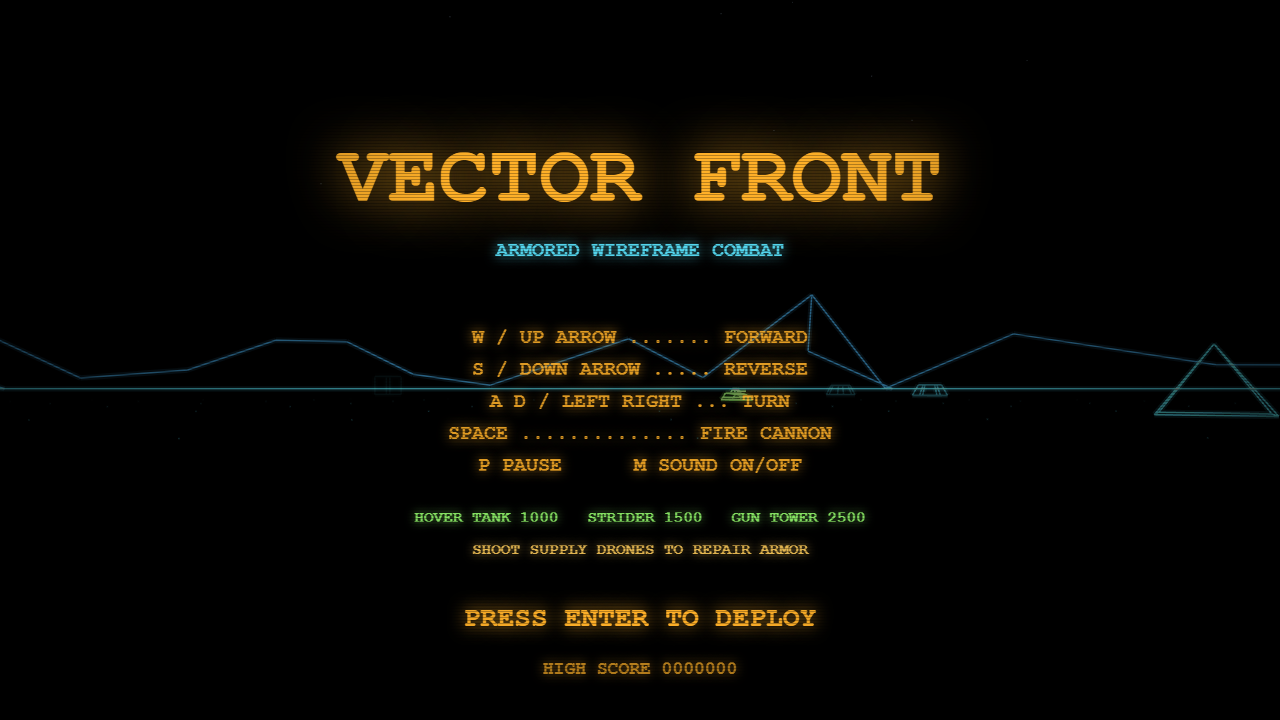
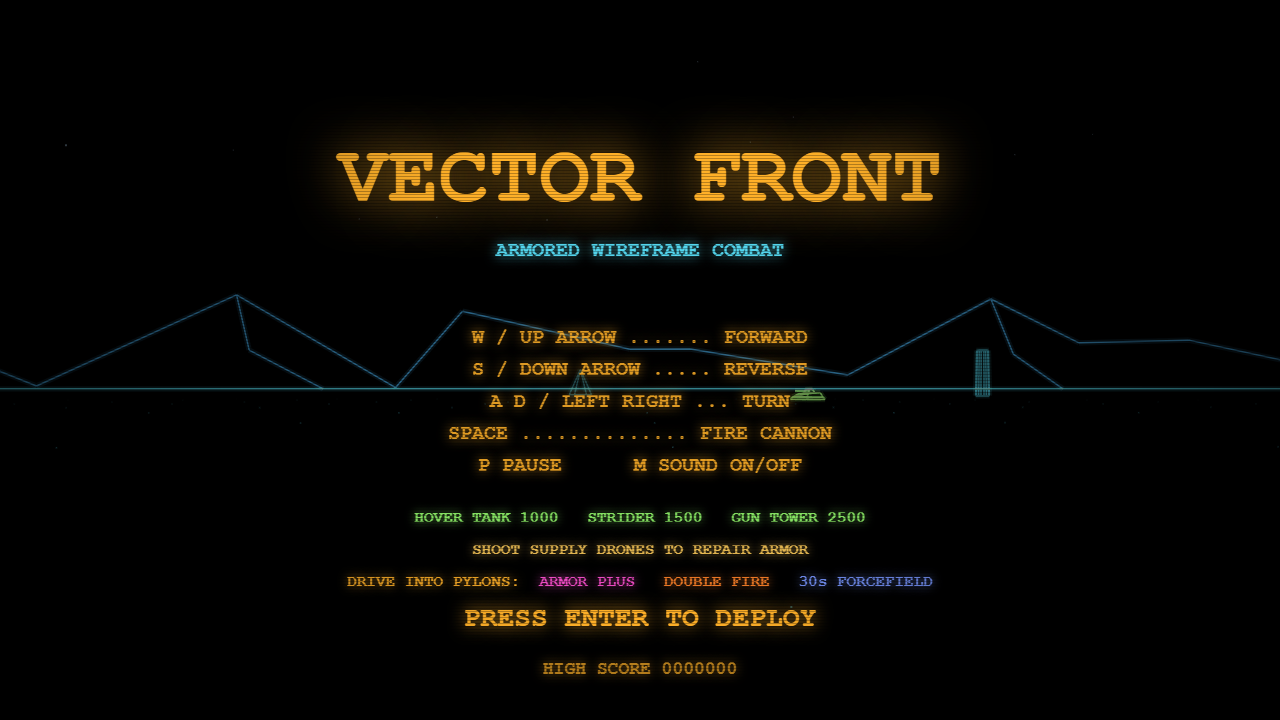
Add power pylons: Armor Plus, Double Fire and 30s Forcefield

diff --git a/BattleZone.html b/BattleZone.html
@@ -35,6 +35,9 @@ const PSH  = '235,255,255';   // player shell
 const ESH  = '255,110,80';    // enemy shell
 const HUD  = '255,176,40';    // amber HUD
 const RED  = '255,70,50';
+const PCOL = { ar: '255,80,210', rf: '255,130,40', sh: '120,150,255' };  // power pylons
+const PNAME = { ar: 'ARMOR PLUS', rf: 'DOUBLE FIRE', sh: 'FORCEFIELD' };
+const PYL_RECHARGE = 45, RAPID_TIME = 20, SHIELD_TIME = 30, ARMOR_MAX = 150;
 
 let W, H, DPR, F, HY, scanPat, vignette;
 function resize() {
@@ -121,13 +124,36 @@ const DRONE = (() => {
 const SHELL_P = merge(octM(.28, .28, .5), lines([[0, 0, -.5], [0, 0, -3.2]]));
 const SHELL_E = merge(octM(.45, .45, .45), lines([[0, 0, -.45], [0, 0, -2.4]]));
 const RING = ringM(28);
+// Power pylon: a tall glyph-banded obelisk with a crystal floating above it
+const shift = (m, dx, dy, dz) => ({ v: m.v.map(p => [p[0] + dx, p[1] + dy, p[2] + dz]), e: m.e });
+const OBEL = (() => {
+  const band = y => { const r = 1.5 - (y - .6) / 8 * .5; return frustM(4, r, r, 0, y, Math.PI / 4); };
+  const tv0 = [];
+  for (let i = 0; i < 4; i++) { const a = Math.PI / 4 + i / 4 * TAU; tv0.push([Math.sin(a) * 1.0, 8.6, Math.cos(a) * 1.0]); }
+  const cap = { v: [...tv0, [0, 10.2, 0]], e: [[0, 4], [1, 4], [2, 4], [3, 4]] };
+  return merge(frustM(4, 2.5, 2.2, .6, 0, Math.PI / 4), frustM(4, 1.5, 1.0, 8, .6, Math.PI / 4), cap,
+    band(2.6), band(3.0), band(6.0), band(6.4),
+    lines([[0, 3.6, 1.36], [0, 5.4, 1.27]], [[0, 3.6, -1.36], [0, 5.4, -1.27]], [[1.36, 3.6, 0], [1.27, 5.4, 0]], [[-1.36, 3.6, 0], [-1.27, 5.4, 0]]));
+})();
+const CRYS = {
+  ar: merge(octM(.8, 1.3, .8), lines([[-1.4, 0, 0], [1.4, 0, 0]], [[0, -1.9, 0], [0, 1.9, 0]])),
+  rf: merge(shift(octM(.6, .9, .6), 0, .75, 0), shift(octM(.6, .9, .6), 0, -.75, 0)),
+  sh: merge(octM(.7, 1.1, .7), (() => { const m = ringM(16); m.v = m.v.map(p => [p[0] * 1.7, 0, p[2] * 1.7]); return m; })())
+};
 
 // ---------- world ----------
 let obstacles = [];
 function makeWorld() {
   obstacles = [];
   let tries = 0;
-  while (obstacles.length < 70 && tries++ < 2000) {
+  const kinds = ['ar', 'rf', 'sh', 'ar', 'rf', 'sh', 'ar', 'rf', 'sh'];
+  while (kinds.length && tries++ < 3000) {
+    const x = Math.random() * S, z = Math.random() * S;
+    if (obstacles.some(q => Math.hypot(wrap(q.x - x), wrap(q.z - z)) < 170)) continue;
+    obstacles.push({ pyl: kinds.shift(), m: OBEL, r: 2.3, h: 10.2, x, z, yaw: 0, cd: 0, ph: Math.random() * TAU });
+  }
+  tries = 0;
+  while (obstacles.length < 79 && tries++ < 2000) {
     const x = Math.random() * S, z = Math.random() * S, t = Math.random();
     let o;
     if (t < .32) { const s = rnd(3.5, 6); o = { m: frustM(4, s * .707, s * .707, s, 0, Math.PI / 4), r: s * .62, h: s }; }
@@ -165,6 +191,7 @@ let enemies = [], shells = [], debris = [], rings = [];
 let state = 'title', paused = false, T = 0;
 let score = 0, hi = 0, wave = 1, kills = 0, killsNeeded = 6, nextLife = 30000;
 let spawnT = 0, supplyT = 40, msgText = '', msgT = 0, shake = 0, flash = 0, staticT = 0, dieT = 0, overT = 0;
+let rapidT = 0, shieldT = 0, shieldFx = 0, shieldBeep = 0;
 let lastHit = -10, bumpT = 0, sweep = 0, lockT = 0, locked = null, camY = 1.5, CH = 1, SH = 0;
 try { hi = +localStorage.getItem('vectorfront.hi') || 0; } catch (e) { }
 function saveHi() { if (score > hi) { hi = score; try { localStorage.setItem('vectorfront.hi', hi); } catch (e) { } } }
@@ -224,7 +251,13 @@ const sfx = {
   over() { [392, 330, 262, 196].forEach((f, i) => tone('square', f, f * .98, .35, .1, 0, .3 + i * .35)); },
   drone(v, p) { tone('triangle', 1400, 1750, .06, .07 * v, p); tone('triangle', 1400, 1750, .06, .07 * v, p, .1); },
   start() { tone('sawtooth', 70, 420, .7, .14); nz(.7, .2, 'bandpass', 300, 2500, 4); },
-  dud() { tone('square', 140, 120, .06, .05); }
+  dud() { tone('square', 140, 120, .06, .05); },
+  pyArmor() { [262, 392, 523, 784, 1047, 1568].forEach((f, i) => { tone('sine', f, f, .35, .16, 0, i * .06); tone('triangle', f * 2, f * 2, .2, .05, 0, i * .06); }); nz(.9, .15, 'bandpass', 800, 6000, 6); },
+  pyRapid() { for (let i = 0; i < 8; i++) tone('square', 300 + i * 160, 300 + i * 160, .06, .09, 0, i * .045); tone('sawtooth', 120, 900, .5, .12, 0, .1); },
+  pyShield() { tone('sine', 140, 1300, 1.1, .25); tone('sine', 147, 1310, 1.1, .18); nz(1.2, .3, 'bandpass', 300, 4000, 3); [659, 988, 1319].forEach((f, i) => tone('triangle', f, f, .5, .1, 0, .7 + i * .1)); },
+  shieldHit(v = 1, p = 0) { tone('triangle', 1250, 520, .25, .3 * v, p); tone('sine', 2500, 1800, .12, .1 * v, p); nz(.25, .3 * v, 'highpass', 6000, 2000, .8, p); },
+  powerDown() { [880, 660, 440, 330].forEach((f, i) => tone('square', f, f, .09, .07, 0, i * .08)); },
+  pyDud() { tone('sine', 220, 180, .2, .08); }
 };
 function spatial(x, z) {
   const dx = wrap(x - P.x), dz = wrap(z - P.z), d = Math.hypot(dx, dz) || 1;
@@ -270,6 +303,17 @@ function addScore(n) {
   if (score >= nextLife) { nextLife += 30000; P.lives++; sfx.life(); msg('BONUS TANK'); }
 }
 
+function reloadTime() { return rapidT > 0 ? .375 : .75; }
+function usePylon(q) {
+  if (q.cd > 0) { if (T - (q.dudT || -9) > 1.5) { q.dudT = T; sfx.pyDud(); msg(PNAME[q.pyl] + ' PYLON RECHARGING ' + Math.ceil(q.cd) + 's', 1.4); } return; }
+  q.cd = PYL_RECHARGE;
+  if (q.pyl === 'ar') { P.armor = ARMOR_MAX; sfx.pyArmor(); msg('ARMOR PLUS - ARMOR ' + ARMOR_MAX, 2.4); }
+  if (q.pyl === 'rf') { rapidT = RAPID_TIME; P.reload = 0; sfx.pyRapid(); msg('DOUBLE FIRE RATE - ' + RAPID_TIME + ' SECONDS', 2.4); }
+  if (q.pyl === 'sh') { shieldT = SHIELD_TIME; shieldBeep = 0; shieldFx = 1; sfx.pyShield(); msg('FORCEFIELD ON - ' + SHIELD_TIME + ' SECONDS', 2.4); }
+  addScore(100);
+  rings.push({ x: q.x, z: q.z, r: 1, sp: 30, life: 1.2, col: PCOL[q.pyl] }, { x: q.x, z: q.z, r: 1, sp: 16, life: 1.5, col: '255,255,255' });
+}
+
 // ---------- game flow ----------
 function clearSpot() {
   for (let i = 0; i < 200; i++) { const x = Math.random() * S, z = Math.random() * S; if (!blocked(x, z, 8)) return [x, z]; }
@@ -284,7 +328,7 @@ function startGame() {
   [P.x, P.z] = clearSpot(); P.h = Math.random() * TAU; P.v = 0; P.armor = 100; P.lives = 3; P.reload = 0;
   enemies = []; shells = []; debris = []; rings = [];
   score = 0; wave = 1; kills = 0; killsNeeded = 6; nextLife = 30000;
-  spawnT = 1.5; supplyT = rnd(30, 45); state = 'play'; paused = false;
+  spawnT = 1.5; supplyT = rnd(30, 45); state = 'play'; paused = false; rapidT = shieldT = 0;
   sfx.start(); msg('WAVE 1 - ENGAGE', 2.5);
 }
 function spawnEnemy(type) {
@@ -318,6 +362,7 @@ function nextWave() {
 }
 function damage(n) {
   if (state !== 'play') return;
+  if (shieldT > 0) { sfx.shieldHit(); shieldFx = .5; shake = Math.max(shake, .2); return; }
   P.armor -= n; lastHit = T; shake = Math.min(1.4, shake + n / 35); flash = .55; staticT = .4; sfx.hit();
   if (P.armor <= 0) { P.armor = 0; die(); }
   else if (P.armor < 35) msg('ARMOR CRITICAL', 1.6);
@@ -329,7 +374,7 @@ function die() {
 function respawn() {
   P.lives--;
   if (P.lives <= 0) { state = 'over'; overT = 0; saveHi(); sfx.over(); return; }
-  P.armor = 100; P.v = 0; state = 'play'; shells = [];
+  P.armor = 100; P.v = 0; state = 'play'; shells = []; rapidT = shieldT = 0;
   for (const e of enemies) {
     const d = Math.hypot(wrap(e.x - P.x), wrap(e.z - P.z));
     if (d < 90) { e.dead = true; }
@@ -363,7 +408,7 @@ function killEnemy(e, scored) {
   explode(e.x, e.y + (e.type === 'sk' ? .3 : 0), e.z, m, e.type === 'st' ? e.spin : e.type === 'py' ? e.head : e.yaw, e.type === 'dr' ? DCOL : ECOL, e.type === 'py');
   const s = spatial(e.x, e.z); sfx.boom(s.v, s.p, e.type === 'py');
   if (e.type === 'dr') {
-    if (scored) { addScore(500); P.armor = Math.min(100, P.armor + 50); sfx.repair(); msg('ARMOR RESTORED +50'); }
+    if (scored) { addScore(500); P.armor = Math.max(P.armor, Math.min(100, P.armor + 50)); sfx.repair(); msg('ARMOR RESTORED +50'); }
     return;
   }
   if (scored) addScore(e.type === 'sk' ? 1000 : e.type === 'st' ? 1500 : 2500);
@@ -388,6 +433,7 @@ function update(dt) {
     if (active < maxA && spawnT <= 0) { spawnEnemy(); spawnT = rnd(2, 4.5); }
     supplyT -= dt;
     if (supplyT <= 0) { supplyT = rnd(40, 60); if (!enemies.some(e => e.type === 'dr')) spawnSupply(); }
+    for (const q of obstacles) if (q.pyl && q.cd > 0) { q.cd -= dt; if (q.cd <= 0) q.cd = 0; }
     if (T - lastHit > 4 && P.armor < 100) P.armor = Math.min(100, P.armor + 2.5 * dt);
   }
 
@@ -419,6 +465,11 @@ function updatePlayer(dt) {
   P.v += clamp(target - P.v, -28 * dt, 28 * dt);
   P.h = angN(P.h + turn * 1.1 * dt);
   let nx = P.x + Math.sin(P.h) * P.v * dt, nz = P.z + Math.cos(P.h) * P.v * dt;
+  for (const q of obstacles) {
+    if (!q.pyl) continue;
+    const dx = wrap(nx - q.x), dz = wrap(nz - q.z);
+    if (dx * dx + dz * dz < (q.r + 2.6) ** 2) usePylon(q);
+  }
   const o = blocked(nx, nz, 1.7);
   bumpT -= dt;
   if (o) {
@@ -434,10 +485,16 @@ function updatePlayer(dt) {
   }
   P.x = mod(nx); P.z = mod(nz);
 
+  if (rapidT > 0) { rapidT -= dt; if (rapidT <= 0) { rapidT = 0; sfx.powerDown(); msg('DOUBLE FIRE ENDED', 1.6); } }
+  if (shieldT > 0) {
+    shieldT -= dt;
+    if (shieldT <= 5 && shieldT > 0 && Math.ceil(shieldT) !== shieldBeep) { shieldBeep = Math.ceil(shieldT); sfx.warn(.7, 0); }
+    if (shieldT <= 0) { shieldT = 0; sfx.powerDown(); msg('FORCEFIELD DOWN', 1.6); }
+  }
   P.reload -= dt;
   if (K.fire) {
     if (P.reload <= 0) {
-      P.reload = .75;
+      P.reload = reloadTime();
       shells.push({ own: true, x: mod(P.x + Math.sin(P.h) * 2.5), z: mod(P.z + Math.cos(P.h) * 2.5), y: 1.2,
         vx: Math.sin(P.h) * 95, vz: Math.cos(P.h) * 95, life: 1.6, yaw: P.h });
       sfx.fire(); shake = Math.max(shake, .25);
@@ -489,7 +546,7 @@ function updateEnemies(dt) {
       for (const o of obstacles) { const ox = wrap(e.x - o.x), oz = wrap(e.z - o.z); if (ox * ox + oz * oz < (o.r + 2.5) ** 2) ty = Math.max(ty, o.h + 1.6); }
       e.y += (ty - e.y) * Math.min(1, dt * 6);
       if (live && dist < 60 && T - e.warnT > Math.max(.15, dist / 120)) { const s = spatial(e.x, e.z); sfx.warn(s.v, s.p); e.warnT = T; }
-      if (live && dist < 2.9 && e.y < 3.5) { damage(45); killEnemy(e, false); }
+      if (live && dist < 2.9 && e.y < 3.5) { if (shieldT > 0) { sfx.shieldHit(); shieldFx = .6; killEnemy(e, true); } else { damage(45); killEnemy(e, false); } }
     }
     else if (e.type === 'py') {
       e.cd -= dt;
@@ -556,7 +613,12 @@ function updateShells(dt) {
       }
     } else {
       const dx = wrap(P.x - s.x), dz = wrap(P.z - s.z);
-      if (dx * dx + dz * dz < 1.9 * 1.9 && state === 'play') { s.dead = true; damage(s.dmg); }
+      const shR = shieldT > 0 ? 4 : 1.9;
+      if (dx * dx + dz * dz < shR * shR && state === 'play') {
+        s.dead = true;
+        if (shieldT > 0) rings.push({ x: s.x, z: s.z, r: .3, sp: 14, life: .6, col: PCOL.sh });
+        damage(s.dmg);
+      }
     }
   }
   shells = shells.filter(s => !s.dead);
@@ -577,6 +639,7 @@ function updateFx(dt) {
   debris = debris.filter(d => d.life > 0);
   for (const r of rings) { r.r += r.sp * dt; r.sp *= Math.pow(.25, dt); r.life -= dt * .9; }
   rings = rings.filter(r => r.life > 0);
+  shieldFx = Math.max(0, shieldFx - dt * 1.5);
   shake = Math.max(0, shake - dt * 2.2); flash = Math.max(0, flash - dt * 2.5); staticT = Math.max(0, staticT - dt);
   msgT -= dt;
 }
@@ -596,10 +659,10 @@ function glow(col, a, w = 1.5) {
   ctx.strokeStyle = `rgba(${col},${a * .2})`; ctx.lineWidth = w * 3.6; ctx.stroke();
   ctx.strokeStyle = `rgba(${col},${a})`; ctx.lineWidth = w; ctx.stroke();
 }
-function drawModel(m, x, y, z, yaw, col, al = 1, sc = 1) {
+function drawModel(m, x, y, z, yaw, col, al = 1, sc = 1, cull = 8) {
   const ox = wrap(x - P.x), oz = wrap(z - P.z), dist = Math.hypot(ox, oz);
   if (dist > VIEW) return;
-  const ccz = ox * SH + oz * CH, ccx = ox * CH - oz * SH, rad = 8 * sc;
+  const ccz = ox * SH + oz * CH, ccx = ox * CH - oz * SH, rad = cull * sc;
   if (ccz < -rad || Math.abs(ccx) > ccz * (W / 2 / F) + rad + 4) return;
   let a = al; if (dist > FADE) a *= (VIEW - dist) / (VIEW - FADE);
   const cy = Math.cos(yaw), sy = Math.sin(yaw);
@@ -654,7 +717,13 @@ function renderWorld() {
     const sz = cz < 20 ? 2 : 1.4; ctx.fillRect(sx - sz / 2, sy, sz, sz);
   }
   // obstacles
-  for (const o of obstacles) drawModel(o.m, o.x, 0, o.z, o.yaw, WCOL, .95);
+  for (const o of obstacles) {
+    if (!o.pyl) { drawModel(o.m, o.x, 0, o.z, o.yaw, WCOL, .95); continue; }
+    const c = PCOL[o.pyl], ready = o.cd <= 0, pulse = .75 + .25 * Math.sin(T * 3 + o.ph);
+    drawModel(OBEL, o.x, 0, o.z, 0, c, ready ? pulse : .28, 1, 14);
+    if (ready) drawModel(CRYS[o.pyl], o.x, 11.6 + Math.sin(T * 1.7 + o.ph) * .35, o.z, T * 1.3 + o.ph, c, 1);
+    else drawModel(CRYS[o.pyl], o.x, 11.6, o.z, o.ph, c, .12 + .2 * (1 - o.cd / PYL_RECHARGE));
+  }
   // enemies
   for (const e of enemies) {
     const col = e.hitT > 0 ? '255,255,255' : ECOL;
@@ -772,6 +841,13 @@ function renderHUD() {
     ctx.shadowColor = `rgba(${e.type === 'dr' ? DCOL : RED},1)`; ctx.shadowBlur = 8;
     ctx.fillRect(bx - 2.5, by - 2.5, 5, 5); ctx.shadowBlur = 0;
   }
+  for (const q of obstacles) {
+    if (!q.pyl) continue;
+    const dx = wrap(q.x - P.x), dz = wrap(q.z - P.z); if (dx * dx + dz * dz > 165 * 165) continue;
+    const bx = rcx + (dx * CH - dz * SH) / 170 * RR, by = rcy - (dx * SH + dz * CH) / 170 * RR;
+    ctx.beginPath(); ctx.moveTo(bx, by - 4); ctx.lineTo(bx + 3, by); ctx.lineTo(bx, by + 4); ctx.lineTo(bx - 3, by); ctx.closePath();
+    glow(PCOL[q.pyl], q.cd > 0 ? .3 : .95, 1.2);
+  }
   ctx.fillStyle = `rgba(${HUD},1)`; ctx.fillRect(rcx - 1.5, rcy - 1.5, 3, 3);
 
   // armor / cannon / lives
@@ -783,10 +859,17 @@ function renderHUD() {
     const fill = clamp(P.armor / 10 - i, 0, 1);
     ctx.strokeStyle = `rgba(${acol},.5)`; ctx.lineWidth = 1; ctx.strokeRect(bx0 + i * (sw + gap) + .5, by0 + 12.5, sw, 12);
     if (fill > 0) { ctx.fillStyle = `rgba(${acol},${(low ? .5 + .5 * pul : .85) * fill})`; ctx.fillRect(bx0 + i * (sw + gap), by0 + 12, sw * fill, 13); }
+    const over = clamp((P.armor - 100) / 5 - i, 0, 1);
+    if (over > 0) { ctx.fillStyle = `rgba(${PCOL.ar},${.9 * over})`; ctx.fillRect(bx0 + i * (sw + gap), by0 + 12, sw * over, 13); }
   }
+  if (P.armor > 100) txt('+' + Math.ceil(P.armor - 100), bx0 + bw, by0, sm * .85, PCOL.ar, 1, 'right');
+  let py0 = by0 - 50;
+  if (shieldT > 0) { txt('FORCEFIELD ' + Math.ceil(shieldT) + 's', bx0, py0, sm * .85, PCOL.sh, shieldT < 5 && Math.sin(T * 12) < 0 ? .35 : 1); py0 -= sm * 1.3; }
+  if (rapidT > 0) txt('DOUBLE FIRE ' + Math.ceil(rapidT) + 's', bx0, py0, sm * .85, PCOL.rf, rapidT < 4 && Math.sin(T * 12) < 0 ? .35 : 1);
   const ready = P.reload <= 0;
-  txt(ready ? 'CANNON READY' : 'LOADING', bx0, by0 + 44, sm * .8, HUD, ready ? 1 : .6);
-  ctx.fillStyle = `rgba(${HUD},.8)`; ctx.fillRect(bx0, by0 + 56, bw * clamp(1 - P.reload / .75, 0, 1), 3);
+  const ccol = rapidT > 0 ? PCOL.rf : HUD;
+  txt(ready ? (rapidT > 0 ? 'CANNON READY  2X' : 'CANNON READY') : 'LOADING', bx0, by0 + 44, sm * .8, ccol, ready ? 1 : .6);
+  ctx.fillStyle = `rgba(${ccol},.8)`; ctx.fillRect(bx0, by0 + 56, bw * clamp(1 - P.reload / reloadTime(), 0, 1), 3);
   for (let i = 0; i < Math.min(P.lives, 8); i++) {
     const lx = W - 34 - i * 30, ly = by0 - 26;
     ctx.beginPath(); ctx.moveTo(lx - 11, ly + 5); ctx.lineTo(lx + 11, ly + 5); ctx.lineTo(lx + 8, ly); ctx.lineTo(lx - 8, ly); ctx.closePath();
@@ -811,6 +894,22 @@ function renderStatic(amount) {
   for (let i = 0; i < n * 4; i++) { ctx.fillStyle = `rgba(255,255,255,${rnd(.2, .8)})`; ctx.fillRect(Math.random() * W, Math.random() * H, 2, 2); }
 }
 
+function renderShield() {
+  const fl = shieldT < 5 ? (Math.sin(T * 18) > 0 ? 1 : .35) : 1, a = (.35 + .15 * Math.sin(T * 4) + shieldFx * .6) * fl;
+  ctx.save(); ctx.globalCompositeOperation = 'lighter';
+  ctx.fillStyle = `rgba(${PCOL.sh},${.04 + shieldFx * .12})`; ctx.fillRect(0, 0, W, H);
+  ctx.beginPath(); ctx.ellipse(W / 2, H / 2, W * .58, H * .62, 0, 0, TAU); glow(PCOL.sh, a, 2);
+  ctx.beginPath(); ctx.ellipse(W / 2, H / 2, W * .61, H * .66, 0, 0, TAU); glow(PCOL.sh, a * .5, 1.2);
+  const n = 28, hr = Math.max(10, W / 70);
+  ctx.beginPath();
+  for (let i = 0; i < n; i++) {
+    const t = i / n * TAU + T * .15, cx = W / 2 + Math.cos(t) * W * .595, cy = H / 2 + Math.sin(t) * H * .64;
+    for (let k = 0; k <= 6; k++) { const q = k / 6 * TAU, x = cx + Math.cos(q) * hr, y = cy + Math.sin(q) * hr; k ? ctx.lineTo(x, y) : ctx.moveTo(x, y); }
+  }
+  glow(PCOL.sh, a * .6, 1);
+  ctx.restore();
+}
+
 function renderOverlay() {
   const big = Math.max(34, Math.min(84, W / 12)), sm = Math.max(13, Math.min(20, W / 60));
   if (state === 'title') {
@@ -821,6 +920,11 @@ function renderOverlay() {
     lines.forEach((l, i) => txt(l, W / 2, H * .47 + i * sm * 1.6, sm, HUD, .85, 'center'));
     txt('HOVER TANK 1000   STRIDER 1500   GUN TOWER 2500', W / 2, H * .47 + 5.6 * sm * 1.6, sm * .8, ECOL, .85, 'center');
     txt('SHOOT SUPPLY DRONES TO REPAIR ARMOR', W / 2, H * .47 + 6.6 * sm * 1.6, sm * .8, DCOL, .85, 'center');
+    const ly = H * .47 + 7.6 * sm * 1.6, ls = sm * .8;
+    ctx.font = `bold ${ls}px "Courier New",Consolas,monospace`;
+    const parts = [['DRIVE INTO PYLONS:  ', HUD], ['ARMOR PLUS   ', PCOL.ar], ['DOUBLE FIRE   ', PCOL.rf], ['30s FORCEFIELD', PCOL.sh]];
+    let lx = W / 2 - parts.reduce((w, p) => w + ctx.measureText(p[0]).width, 0) / 2;
+    for (const [t, c] of parts) { txt(t, lx, ly, ls, c, .9); lx += ctx.measureText(t).width; }
     if (Math.sin(T * 5) > -.3) txt('PRESS ENTER TO DEPLOY', W / 2, H * .86, sm * 1.4, HUD, 1, 'center');
     txt('HIGH SCORE ' + pad(hi, 7), W / 2, H * .93, sm * .9, HUD, .7, 'center');
   }
@@ -849,6 +953,7 @@ function render() {
   ctx.restore();
   ctx.globalCompositeOperation = 'source-over';
   if (staticT > 0) renderStatic(state === 'dying' ? 1 : staticT * 2);
+  if (shieldT > 0 && state === 'play') renderShield();
   if (flash > 0) { ctx.fillStyle = `rgba(255,120,80,${flash * .35})`; ctx.fillRect(0, 0, W, H); }
   if (state !== 'title') renderHUD();
   renderOverlay();

diff --git a/CLAUDE.md b/CLAUDE.md
@@ -19,8 +19,9 @@ or IDs, constraints, blockers, milestones reached - update this section in
 that same session, without being asked. Keep it a compact rolling summary:
 fold in new facts, prune what is obsolete. Do not log routine activity.
 
-- 2026-11-02: Gregg asked for an exact copy of Atari's Battlezone. That was declined because it would copy someone else's game. What was built instead is an ORIGINAL game in the same genre: `vector-front.html`, a single self-contained file with no assets and no outside libraries. Keep future changes original. Do not copy Battlezone's look, enemies or screen layout.
+- 2026-11-02: Gregg asked for an exact copy of Atari's Battlezone. That was declined because it would copy someone else's game. What was built instead is an ORIGINAL game in the same genre: `vector-front.html` (Gregg renamed it to `BattleZone.html` on 2026-11-02; the in-game title is still VECTOR FRONT), a single self-contained file with no assets and no outside libraries. Keep future changes original. Do not copy Battlezone's look, enemies or screen layout.
 - Game design: a first-person wireframe tank game. The world is an 800x800 map that wraps around at the edges. Colors: cyan scenery, lime enemies, amber on-screen readouts (the HUD). Enemies: hover tank (1000 points), strider ramming drone (1500, from wave 2), gun tower (2500, takes 2 hits, from wave 3). A supply drone appears now and then; shooting it gives back 50 armor. Waves need 4+2*wave kills. The player gets a bonus tank every 30000 points. The HUD has a compass strip, a radar sweep, a target-lock reticle, an armor bar and side arrows that point to enemies off screen.
 - All sound is generated live with the Web Audio API (engine hum, cannon, explosions, radar blips, lock tone, warning beeps, jingles). The high score is saved in the browser's localStorage under `vectorfront.hi`.
+- Power pylons (added 2026-11-02 at Gregg's request, obelisks inspired by the Land of the Lost pylons but drawn as an original design): 9 per map, 3 each of Armor Plus (magenta, armor to 150, constant ARMOR_MAX), Double Fire (orange, reload .75s to .375s for 20s, RAPID_TIME) and Forcefield (blue, 30s immunity, SHIELD_TIME; striders that ram you die and score). Touch to use; 45s recharge (PYL_RECHARGE). They are entries in `obstacles` with a `pyl` field, so they block movement and shells. Shown on radar as diamonds. Each use gives 100 points.
 - Controls: WASD or the arrow keys, Space to fire, P to pause, M to mute, Enter to start.
-- Git repo, public on GitHub: https://github.com/Powellga/vector-front (branch main, created 2026-11-02). GitHub Pages serves the game at https://powellga.github.io/vector-front/vector-front.html. README.md shows screenshots from `screenshots/` (title.png, gameplay.png), captured with headless Chrome (`--screenshot --virtual-time-budget`, with a temporary copy that sends Enter to start play).
+- Git repo, public on GitHub: https://github.com/Powellga/vector-front (branch main, created 2026-11-02). GitHub Pages serves the game at https://powellga.github.io/vector-front/BattleZone.html. README.md shows screenshots from `screenshots/` (title.png, gameplay.png, pylons.png), captured with headless Chrome (`--screenshot --virtual-time-budget`, with a temporary copy that sends Enter to start play).

diff --git a/README.md b/README.md
@@ -2,15 +2,17 @@
 
 An original first-person wireframe tank game that runs in the browser. One HTML file, no downloads, no libraries, no image or sound files.
 
-**Play it:** https://powellga.github.io/vector-front/vector-front.html
+**Play it:** https://powellga.github.io/vector-front/BattleZone.html
 
 ![Vector Front gameplay](screenshots/gameplay.png)
+
+![Vector Front power pylon and forcefield](screenshots/pylons.png)
 
 ![Vector Front title screen](screenshots/title.png)
 
 ## How to play
 
-Open `vector-front.html` in any modern browser and press Enter.
+Open `BattleZone.html` in any modern browser and press Enter.
 
 | Key | Action |
 | --- | --- |
@@ -30,6 +32,14 @@ Open `vector-front.html` in any modern browser and press Enter.
 - **Supply drone** - shoot it to repair 50 armor
 
 Each wave needs 4 + 2 x wave kills. You get a bonus tank every 30,000 points. The high score is saved in your browser.
+
+## Power pylons
+
+Nine glowing obelisks stand around the map, three of each kind. Drive into one to use it. It then goes dark and recharges for 45 seconds. Each one shows on the radar as a small diamond in its color.
+
+- **Armor Plus (magenta)** - fills your armor to 150, which is 50 more than the normal maximum
+- **Double Fire (orange)** - your cannon reloads twice as fast for 20 seconds
+- **Forcefield (blue)** - 30 seconds of full protection. Enemy shells bounce off, and striders that ram you are destroyed. It beeps and flickers for the last 5 seconds
 
 ## Features
 
